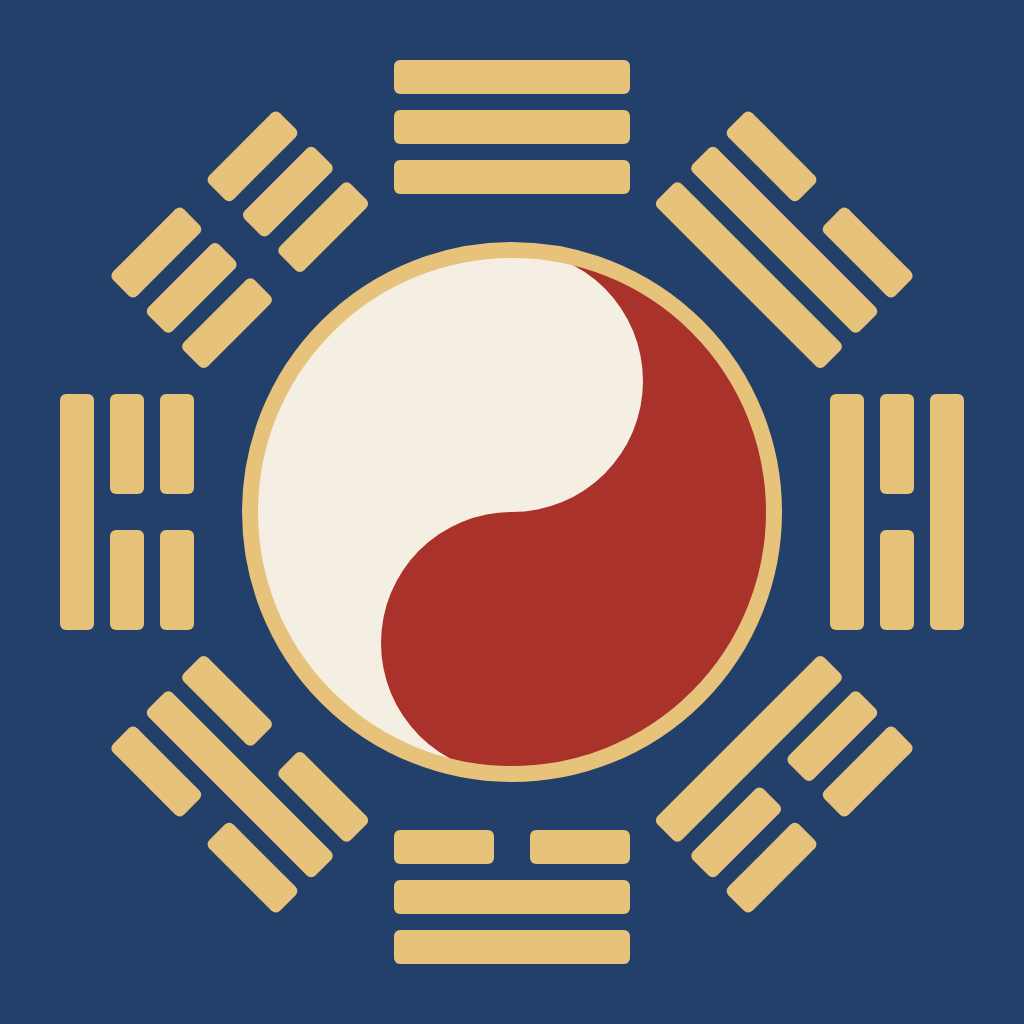
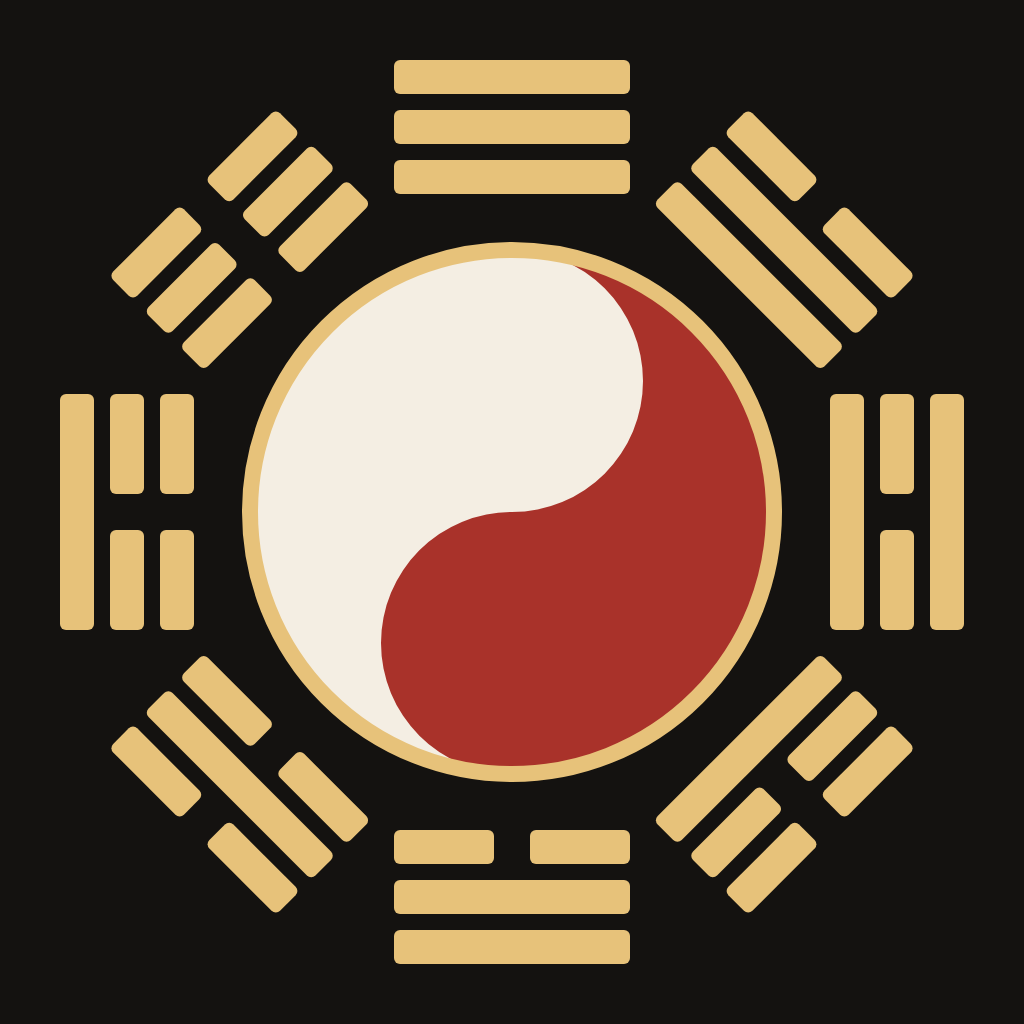
아이콘 바탕 먹색(#141210)
Claude-Session: https://claude.ai/code/session_01Je8P4F8oSJJPTupufeLRsF

diff --git a/index.html b/index.html
@@ -7,28 +7,28 @@
 <meta name="description" content="사주팔자 · 토정비결 · 오늘의 운세 — 전통의 틀 위에 새로 쓴 한국 운세 지침. Korean Saju & Tojeong fortune in many languages.">
 <meta name="theme-color" content="#F4EEE3">
 <meta name="apple-mobile-web-app-title" content="KFortune">
-<link rel="icon" type="image/svg+xml" href="icons/icon.svg">
-<link rel="icon" type="image/png" sizes="48x48" href="icons/favicon-48.png">
-<link rel="apple-touch-icon" href="icons/apple-touch-icon.png">
+<link rel="icon" type="image/svg+xml" href="icons/icon.svg?v=2">
+<link rel="icon" type="image/png" sizes="48x48" href="icons/favicon-48.png?v=2">
+<link rel="apple-touch-icon" href="icons/apple-touch-icon.png?v=2">
 <meta name="application-name" content="KFortune">
 <link rel="preconnect" href="https://fonts.googleapis.com">
 <link rel="preconnect" href="https://fonts.gstatic.com" crossorigin>
 <link href="https://fonts.googleapis.com/css2?family=Noto+Serif+KR:wght@600;700;900&family=Noto+Sans+KR:wght@400;500;700&display=swap" rel="stylesheet">
-<link rel="stylesheet" href="css/app.css?v=20261124e">
+<link rel="stylesheet" href="css/app.css?v=20261124f">
 </head>
 <body>
 <div class="app" id="app"></div>
-<script>window.KF_VER='20261124e';</script>
-<script src="js/jie_data.js?v=20261124e"></script>
-<script src="js/klc.min.js?v=20261124e"></script>
-<script src="js/engine.js?v=20261124e"></script>
-<script src="data/ko/ui.js?v=20261124e"></script>
-<script src="data/ko/daily.js?v=20261124e"></script>
-<script src="data/ko/saju.js?v=20261124e"></script>
-<script src="data/ko/ilju.js?v=20261124e"></script>
-<script src="data/ko/toj.js?v=20261124e"></script>
-<script src="data/ko/gung.js?v=20261124e"></script>
-<script src="js/app.js?v=20261124e"></script>
-<script src="js/pay.js?v=20261124e"></script>
+<script>window.KF_VER='20261124f';</script>
+<script src="js/jie_data.js?v=20261124f"></script>
+<script src="js/klc.min.js?v=20261124f"></script>
+<script src="js/engine.js?v=20261124f"></script>
+<script src="data/ko/ui.js?v=20261124f"></script>
+<script src="data/ko/daily.js?v=20261124f"></script>
+<script src="data/ko/saju.js?v=20261124f"></script>
+<script src="data/ko/ilju.js?v=20261124f"></script>
+<script src="data/ko/toj.js?v=20261124f"></script>
+<script src="data/ko/gung.js?v=20261124f"></script>
+<script src="js/app.js?v=20261124f"></script>
+<script src="js/pay.js?v=20261124f"></script>
 </body>
 </html>
